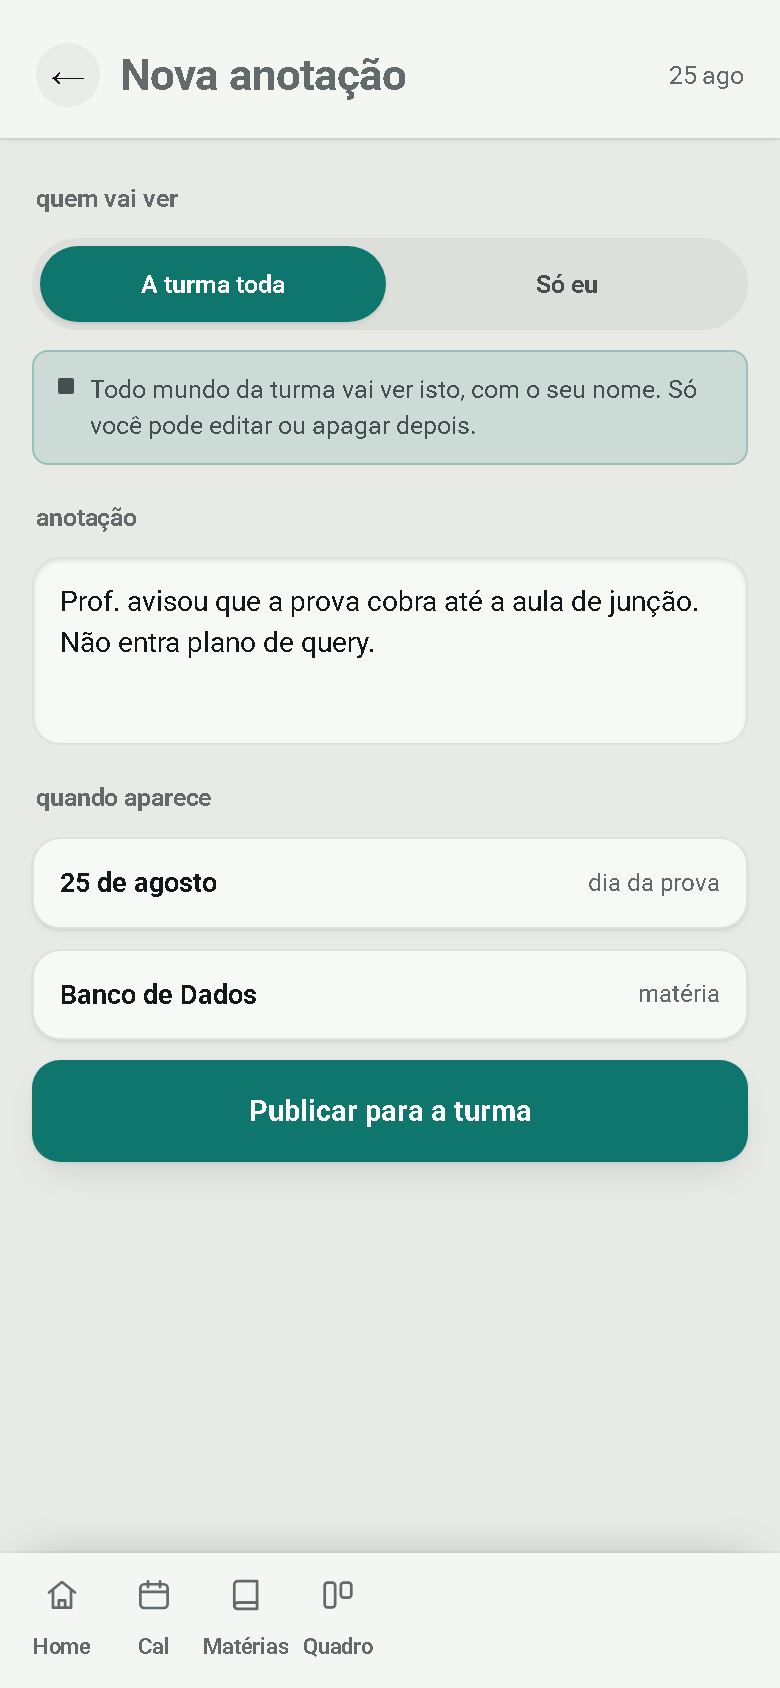
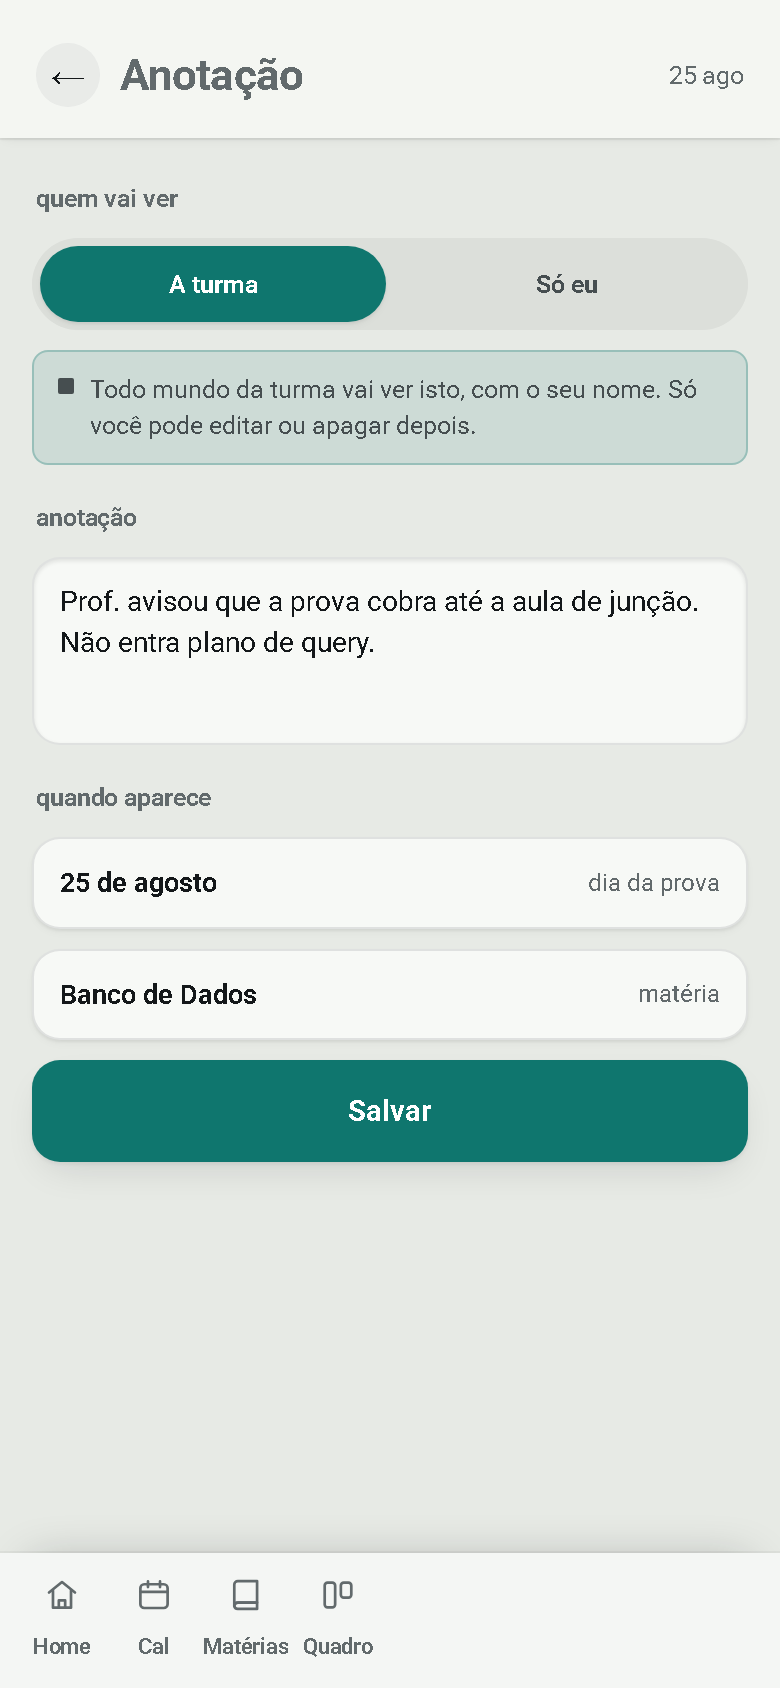
fix(design): vocabulario do mockup alinhado ao app, e a correcao das abas para de evaporar
VOCABULARIO
Mesma acao com palavra diferente nos dois: "Criar/Nova materia" x "Adicionar
materia", "Enviar/Publicar material" x "Adicionar material", "Publicar para a
turma" x "Salvar", "A turma toda" x "A turma", "Nova anotacao" x "Anotacao".

O teste de usabilidade roda no PROTOTIPO, e o avaliador vai procurar no app
depois. Palavra diferente para a mesma acao vira achado falso — culpa do
material, nao do produto. O app e a fonte da verdade; o mockup segue, como ja
foi feito com Cadastrar->Adicionar.

A CORRECAO DAS ABAS VOLTOU PARA DENTRO DO EXTRATOR
A barra de abas e medida em y=783 porque a medicao usa o aparelho de 844. Mas a
tela que rola e exportada na altura do conteudo (home = 1309), e la as abas
ficam em 1248 — com o valor medido, os quatro alvos caem no meio do conteudo.

Isso ja tinha sido consertado hoje de manha, num comando avulso. O extrator
rodou de novo agora e a correcao evaporou junto. Agora ela mora no extrator,
entao nao regride: 20 alvos ancorados no rodape real de cada tela.

19 telas, 99 ligacoes, 7/7 tarefas com caminho.

diff --git a/docs/design/telas-v3.html b/docs/design/telas-v3.html
@@ -754,7 +754,7 @@
         <div class="t-barra">
           <span class="esq">
             <button class="voltar" type="button" data-ir="materias" aria-label="Voltar">&larr;</button>
-            <h3>Nova matéria</h3>
+            <h3>Adicionar matéria</h3>
           </span>
         </div>
         <div class="t-corpo">
@@ -792,7 +792,7 @@
             Por isso a escolha é entre elas, e não livre.
           </p>
 
-          <button class="botao" type="button" data-ir="materias">Criar matéria</button>
+          <button class="botao" type="button" data-ir="materias">Adicionar matéria</button>
         </div>
       </div>
 
@@ -1445,14 +1445,14 @@
         <div class="t-barra">
           <span class="esq">
             <button class="voltar" type="button" data-ir="cal" aria-label="Voltar para o calendário">&larr;</button>
-            <h3>Nova anotação</h3>
+            <h3>Anotação</h3>
           </span>
           <span>25 ago</span>
         </div>
         <div class="t-corpo">
           <p class="rotulo">quem vai ver</p>
           <div class="seg" id="seg-alcance">
-            <button type="button" data-alcance="turma" aria-pressed="true">A turma toda</button>
+            <button type="button" data-alcance="turma" aria-pressed="true">A turma</button>
             <button type="button" data-alcance="pessoal" aria-pressed="false">Só eu</button>
           </div>
 
@@ -1474,7 +1474,7 @@
             <span>matéria</span>
           </div>
 
-          <button class="botao" type="button">Publicar para a turma</button>
+          <button class="botao" type="button">Salvar</button>
         </div>
       </div>
 
@@ -1486,7 +1486,7 @@
         </div>
         <div class="t-corpo">
           <button class="add-linha" type="button" data-ir="nova-materia">
-            +&nbsp;&nbsp;Nova matéria
+            +&nbsp;&nbsp;Adicionar matéria
           </button>
 
           <p class="rotulo">grade</p>
@@ -1538,7 +1538,7 @@
             </span>
           </div>
 
-          <button class="add-linha" type="button" data-ir="material">+ &nbsp;Enviar material</button>
+          <button class="add-linha" type="button" data-ir="material">+ &nbsp;Adicionar material</button>
 
           <p class="rotulo">eventos</p>
           <div class="ev ev--prova">
@@ -1607,7 +1607,7 @@
         <div class="t-barra">
           <span class="esq">
             <button class="voltar" type="button" data-ir="materias" aria-label="Voltar para Matérias">&larr;</button>
-            <h3>Enviar material</h3>
+            <h3>Adicionar material</h3>
           </span>
           <span>banco de dados</span>
         </div>
@@ -1681,7 +1681,7 @@
             <span>Todo mundo da turma vai ver, com o seu nome. Ninguém aprova antes — publica direto. Só você pode apagar depois.</span>
           </div>
 
-          <button class="botao" type="button">Publicar material</button>
+          <button class="botao" type="button">Adicionar material</button>
 
           <p class="aula-meta" style="text-align:center">Até 15 MB · pdf, imagem, slide ou doc</p>
 
@@ -1921,7 +1921,7 @@
     alertaTxt.textContent = turma
       ? 'Todo mundo da turma vai ver isto, com o seu nome. Só você pode editar ou apagar depois.'
       : 'Só você vê. Não aparece para mais ninguém e não altera o que a turma enxerga.';
-    botaoPub.textContent = turma ? 'Publicar para a turma' : 'Salvar só para mim';
+    botaoPub.textContent = turma ? 'Salvar' : 'Salvar só para mim';
   });
 
   // ---- calendario ------------------------------------------------------

diff --git a/docs/design/figma-montar-prototipo.js b/docs/design/figma-montar-prototipo.js
@@ -39,7 +39,7 @@ const TELAS = [
     "y": 541,
     "w": 358,
     "h": 51,
-    "r": "Criar matéria",
+    "r": "Adicionar matéria",
     "back": false
    },
    {
@@ -923,7 +923,7 @@ const TELAS = [
     "y": 83,
     "w": 348,
     "h": 48,
-    "r": "+&nbsp;&nbsp;Nova matéria",
+    "r": "+&nbsp;&nbsp;Adicionar matér",
     "back": false
    },
    {
@@ -932,7 +932,7 @@ const TELAS = [
     "y": 725,
     "w": 348,
     "h": 48,
-    "r": "+ &nbsp;Enviar material",
+    "r": "+ &nbsp;Adicionar material",
     "back": false
    },
    {

diff --git a/docs/design/extrair-hotspots.py b/docs/design/extrair-hotspots.py
@@ -34,6 +34,9 @@ AQUI = pathlib.Path(__file__).parent
 ORIGEM = AQUI / "telas-v3.html"
 DESTINO = AQUI / "hotspots.json"
 
+# Altura do quadro do aparelho; a medicao real sobrescreve no main.
+ALTURA_QUADRO = 844
+
 # Roda depois do script do mockup. Mede tudo e despeja num <pre> que o
 # --dump-dom devolve.
 MEDIDOR = """
@@ -170,6 +173,31 @@ def medir() -> dict:
     return json.loads(bruto)
 
 
+def ancorar_abas_no_rodape(dados: dict) -> int:
+    """
+    Poe as abas no rodape REAL de cada tela, e nao no do quadro de 844.
+
+    POR QUE ISTO EXISTE AQUI DENTRO
+    A medicao acontece com o aparelho na altura padrao (844), entao a barra de
+    abas e medida em y=783 para toda tela. Mas a tela que ROLA e exportada na
+    altura do conteudo — a Home tem 1309 —, e no PNG dela as abas ficam no fim,
+    em 1248. Com o valor da medicao, os quatro alvos caem no meio do conteudo:
+    as abas param de funcionar em toda tela que rola.
+
+    Ja foi consertado uma vez por fora, num comando avulso. Ai o extrator rodou
+    de novo e a correcao evaporou junto — por isso agora ela mora no extrator.
+    """
+    ajustados = 0
+    for tela in dados["telas"]:
+        altura = int(tela.get("alturaConteudo") or ALTURA_QUADRO)
+        if altura <= ALTURA_QUADRO:
+            continue
+        for aba in tela["abas"]:
+            aba["y"] = altura - (ALTURA_QUADRO - aba["y"])
+            ajustados += 1
+    return ajustados
+
+
 def conferir(dados: dict) -> None:
     """Falha alto em vez de entregar um mapa mudo e quebrado."""
     nomes = {t["nome"] for t in dados["telas"]}
@@ -191,6 +219,9 @@ def conferir(dados: dict) -> None:
 
 if __name__ == "__main__":
     dados = medir()
+    ALTURA_QUADRO_REAL = dados["quadro"]["h"]
+    globals()["ALTURA_QUADRO"] = ALTURA_QUADRO_REAL
+    movidas = ancorar_abas_no_rodape(dados)
     conferir(dados)
     DESTINO.write_text(json.dumps(dados, ensure_ascii=False, indent=2), encoding="utf-8")
     quadro = dados["quadro"]
@@ -199,4 +230,5 @@ if __name__ == "__main__":
     for t in dados["telas"]:
         print(f'  {t["nome"]:<20} {len(t["alvos"]):>2} alvos + {len(t["abas"])} abas')
     total = sum(len(t["alvos"]) + len(t["abas"]) for t in dados["telas"])
+    print(f'{movidas} alvos de aba ancorados no rodape das telas que rolam')
     print(f'{total} hotspots no total -> {DESTINO.name}')
